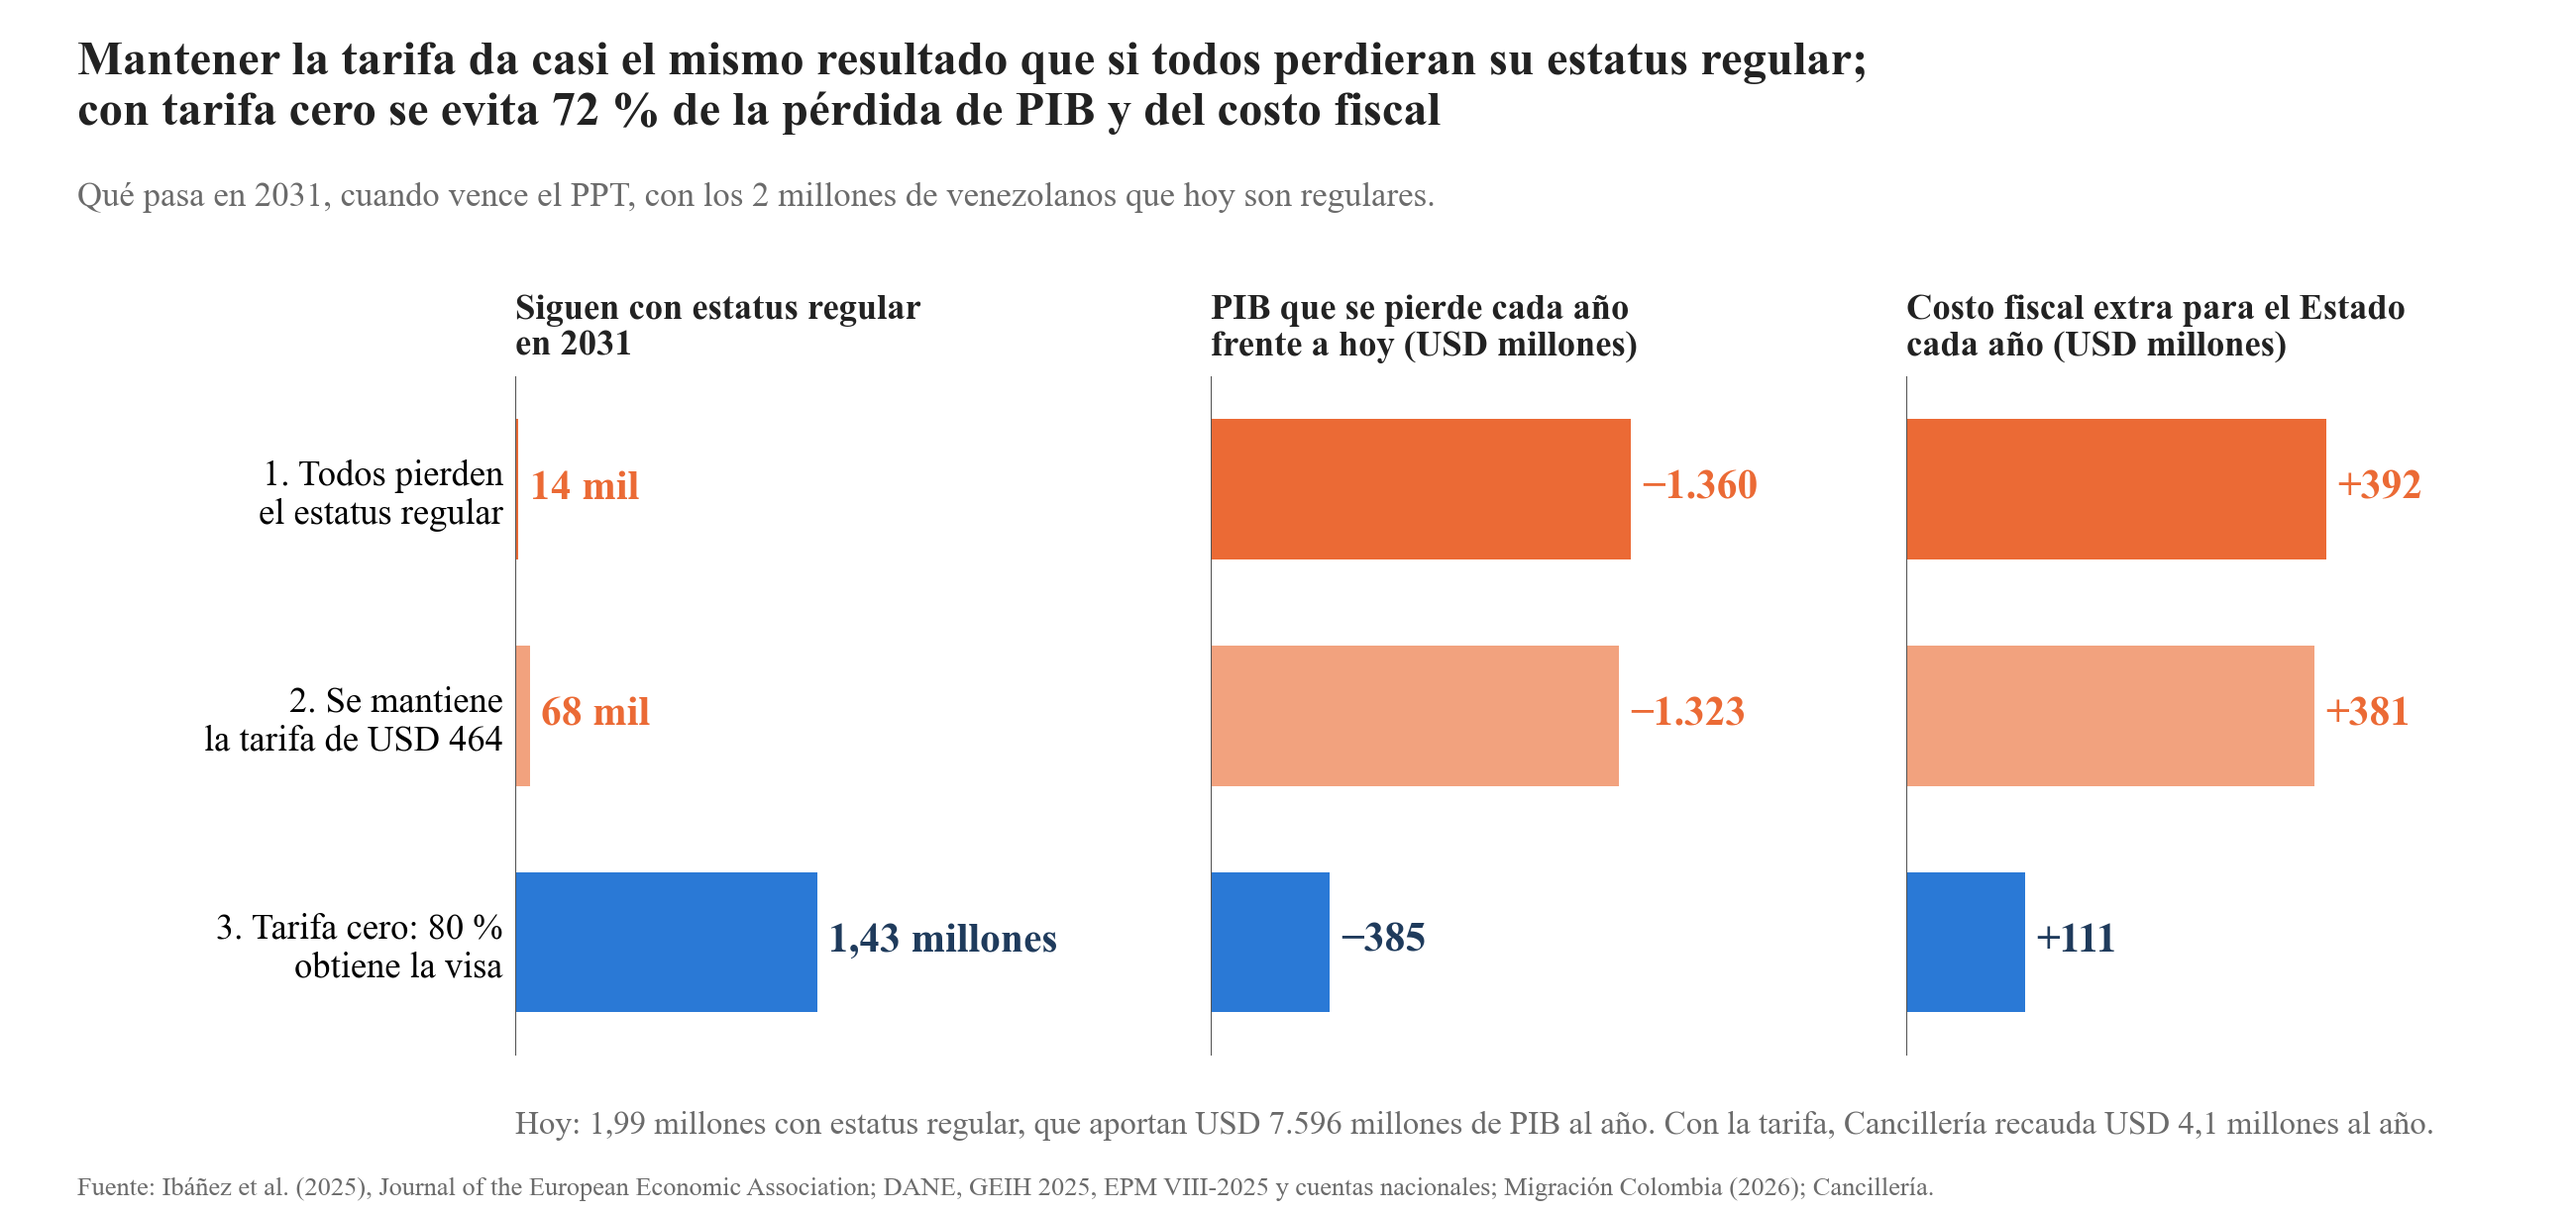
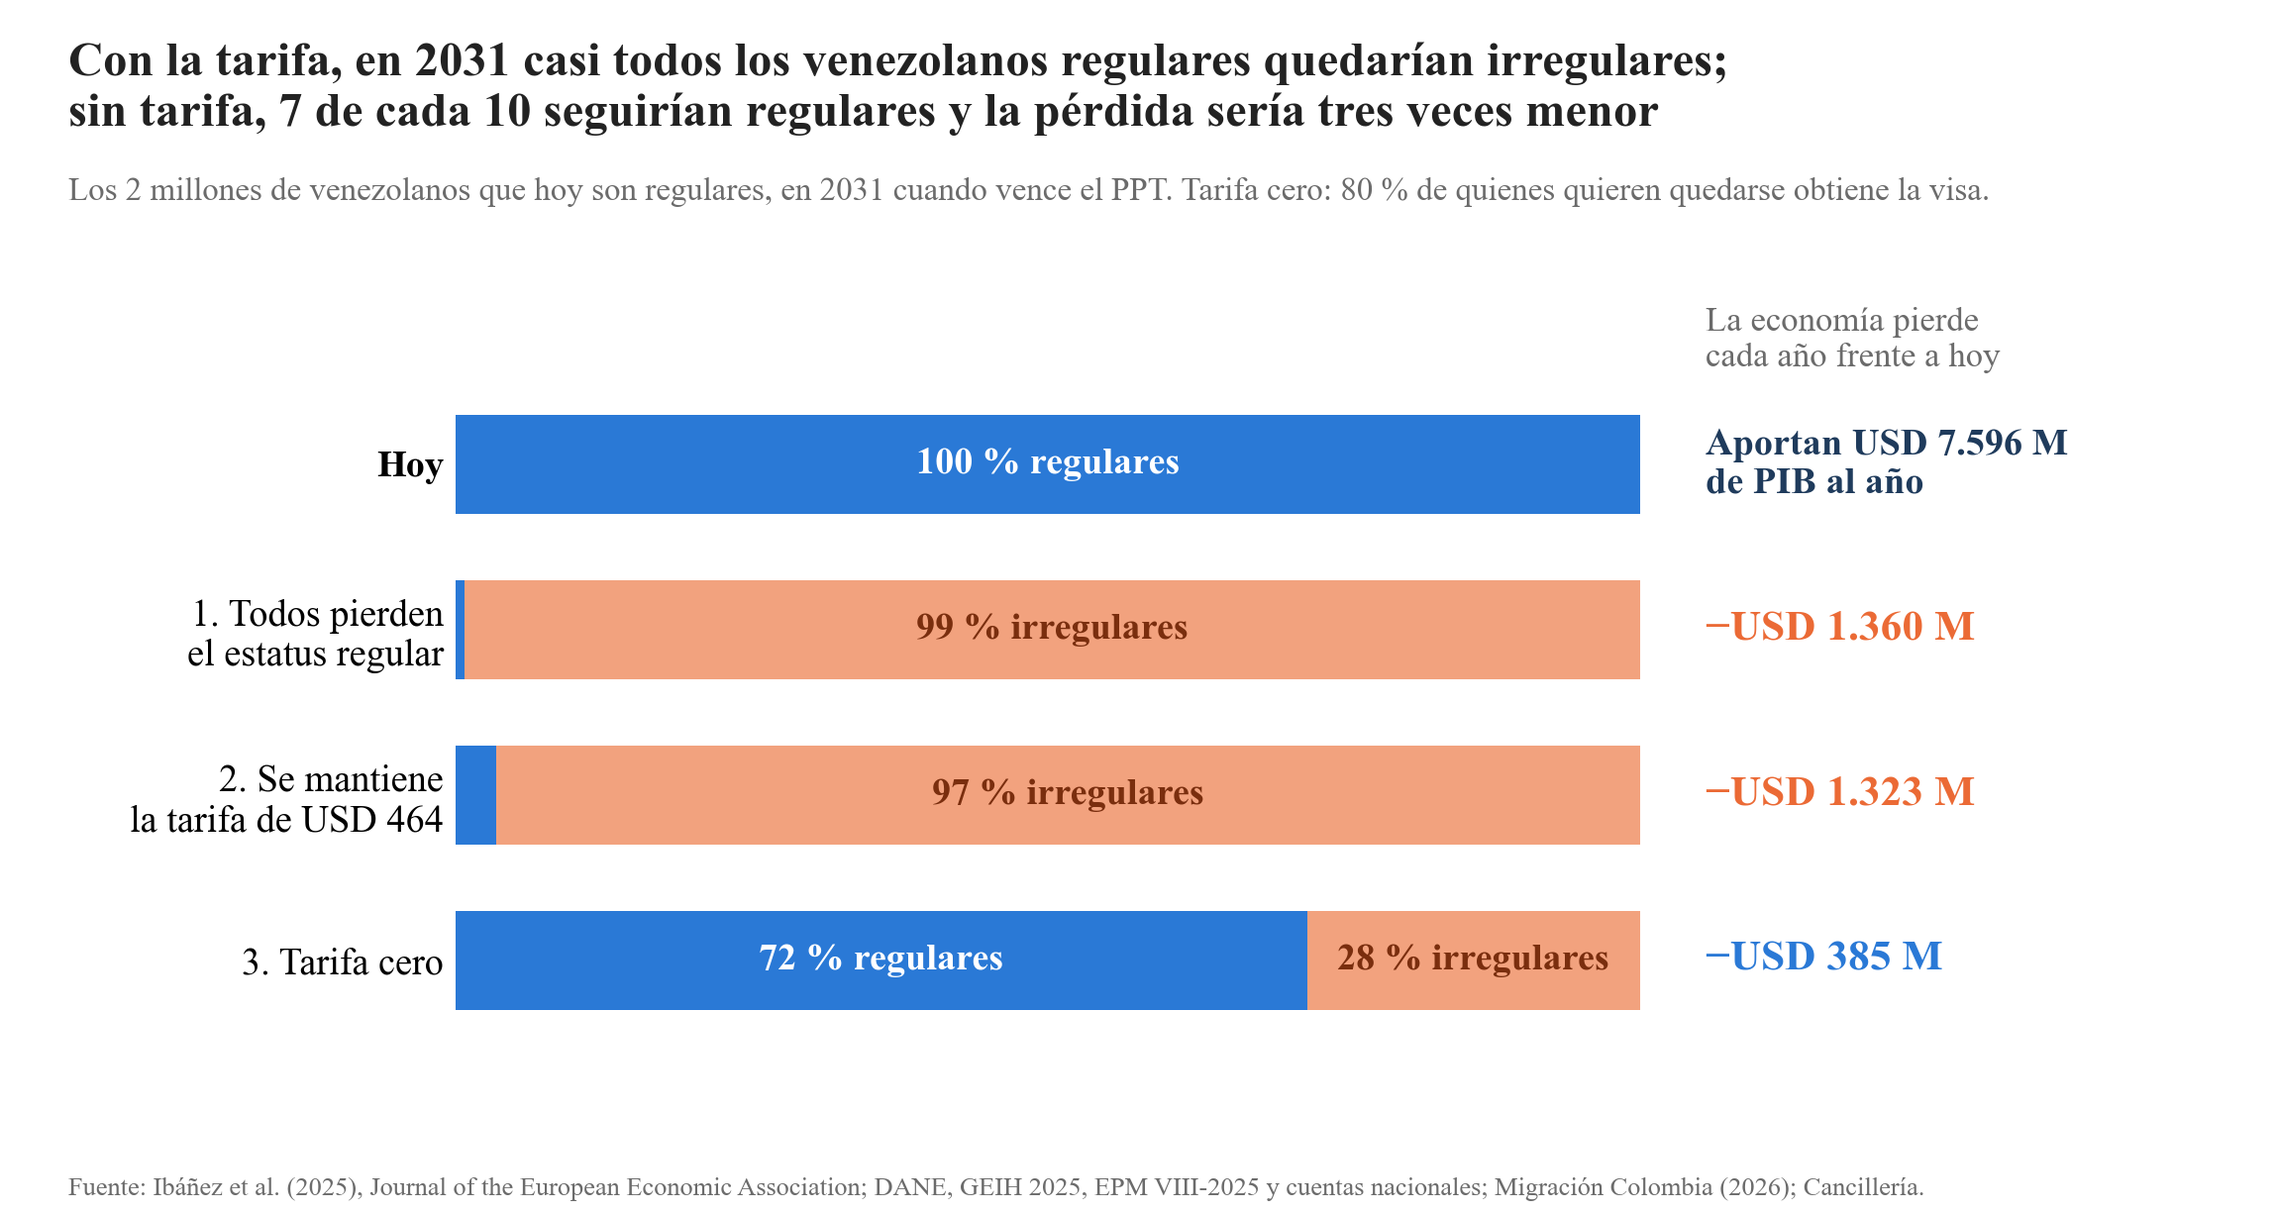
pr19: version simple con barras de regulares e irregulares

diff --git a/Code/32_grafico_tres_escenarios.py b/Code/32_grafico_tres_escenarios.py
@@ -43,31 +43,31 @@ d = pd.DataFrame({"escenario": [k.replace(NL, " ") for k in esc], "regulares_203
 d.to_csv(TAB / "t32_tres_escenarios.csv", index=False)
 print(d.to_string()); print("hoy PIB", round(hoy_pib), "hoy fiscal", round(hoy_fis))
 
-cols = [ORANGE, LORANGE, BLUE]
-panels = [("Siguen con estatus regular" + NL + "en 2031", d["regulares_2031"] / 1e3, lambda v: f"{pc(v / 1e3, 2)} millones" if v >= 1e3 else f"{miles(v)} mil", 1.35 * REG / 1e3),
-          ("PIB que se pierde cada año" + NL + "frente a hoy (USD millones)", d["perdida_PIB_vs_hoy_USD_M"], lambda v: f"−{miles(v)}", 1.35 * d["perdida_PIB_vs_hoy_USD_M"].max()),
-          ("Costo fiscal extra para el Estado" + NL + "cada año (USD millones)", d["costo_fiscal_extra_vs_hoy_USD_M"], lambda v: f"+{miles(v)}", 1.35 * d["costo_fiscal_extra_vs_hoy_USD_M"].max())]
-fig = plt.figure(figsize=(10.4, 4.9))
-y = -np.arange(3)
-for j, (tit, vals, fmt, xmax) in enumerate(panels):
-    ax = fig.add_axes([0.2 + j * 0.27, 0.13, 0.22, 0.56])
-    ax.barh(y, vals, 0.62, color=cols)
-    for yi, v, c in zip(y, vals, cols):
-        ax.text(v + xmax * 0.02, yi, fmt(v), va="center", fontsize=12, fontweight="bold", color=NAVY if c == BLUE else ORANGE)
-    ax.set_xlim(0, xmax); ax.set_ylim(-2.5, 0.5); ax.set_xticks([])
-    ax.set_yticks(y); ax.set_yticklabels([k for k in esc] if j == 0 else [], fontsize=10.5)
-    ax.tick_params(axis="y", length=0)
-    for s in ax.spines.values():
-        s.set_visible(False)
-    ax.axvline(0, color="#555555", lw=0.6)
-    ax.set_title(tit, loc="left", fontsize=10.5, fontweight="bold", color=INK)
-    if j == 0:
-        ax.text(0, 0.62 + 0.5, "", fontsize=1)
-fig.text(0.2, 0.065, f"Hoy: {pc(REG / 1e6, 2)} millones con estatus regular, que aportan USD {miles(hoy_pib)} millones de PIB al año." +
-         f" Con la tarifa, Cancillería recauda USD {pc(TARIFA)} millones al año.", fontsize=9.5, color=GRAY, ha="left")
-fig.text(0.03, 0.965, "Mantener la tarifa da casi el mismo resultado que si todos perdieran su estatus regular;" + NL +
-         f"con tarifa cero se evita {pc(100 * (1 - d.iloc[2, 3] / d.iloc[0, 3]), 0)} % de la pérdida de PIB y del costo fiscal", fontsize=14, fontweight="bold", ha="left", va="top")
-fig.text(0.03, 0.83, "Qué pasa en 2031, cuando vence el PPT, con los 2 millones de venezolanos que hoy son regulares.", fontsize=10, ha="left", color=GRAY)
+# ======================= gráfico simple: cuántas de las 2 millones de personas siguen regulares y cuánto pierde la economía
+filas = [("Hoy", REG, None)] + [(k, r, hoy_pib - pib(r)) for k, r in esc.items()]
+etq = ["Hoy", "1. Todos pierden" + NL + "el estatus regular", "2. Se mantiene" + NL + "la tarifa de USD 464", "3. Tarifa cero"]
+fig, ax = plt.subplots(figsize=(9.2, 4.9)); fig.subplots_adjust(left=0.2, right=0.72, top=0.74, bottom=0.14)
+y = -np.arange(4)
+for yi, (k, r, perd) in zip(y, filas):
+    ax.barh(yi, r / 1e6, 0.6, color=BLUE)
+    ax.barh(yi, (REG - r) / 1e6, 0.6, left=r / 1e6, color=LORANGE)
+    share = r / REG
+    if share > 0.15:
+        ax.text(r / 2e6, yi, f"{pc(100 * share, 0)} % regulares", ha="center", va="center", fontsize=11, fontweight="bold", color="white")
+    if share < 0.95:
+        ax.text((r + (REG - r) / 2) / 1e6, yi, f"{pc(100 * (1 - share), 0)} % irregulares", ha="center", va="center", fontsize=11, fontweight="bold", color="#7a2e0e")
+    txt, col = (f"Aportan USD {miles(hoy_pib)} M" + NL + "de PIB al año", NAVY) if perd is None else (f"−USD {miles(perd)} M", ORANGE if perd > 1000 else BLUE)
+    ax.text(2.1, yi, txt, ha="left", va="center", fontsize=12.5 if perd is not None else 11, fontweight="bold", color=col, transform=ax.transData)
+ax.text(2.1, 0.55, "La economía pierde" + NL + "cada año frente a hoy", ha="left", va="bottom", fontsize=10, color=GRAY)
+ax.set_yticks(y); ax.set_yticklabels(etq, fontsize=11); ax.tick_params(axis="y", length=0)
+ax.set_xticks([]); ax.set_xlim(0, REG / 1e6); ax.set_ylim(-3.5, 0.9)
+for s in ax.spines.values():
+    s.set_visible(False)
+ax.get_yticklabels()[0].set_fontweight("bold")
+fig.text(0.03, 0.965, "Con la tarifa, en 2031 casi todos los venezolanos regulares quedarían irregulares;" + NL +
+         f"sin tarifa, {pc(10 * esc[list(esc)[2]] / REG, 0)} de cada 10 seguirían regulares y la pérdida sería tres veces menor", fontsize=14, fontweight="bold", ha="left", va="top")
+fig.text(0.03, 0.835, "Los 2 millones de venezolanos que hoy son regulares, en 2031 cuando vence el PPT. Tarifa cero: 80 % de quienes quieren quedarse obtiene la visa.",
+         fontsize=9.5, ha="left", color=GRAY)
 fig.text(0.03, 0.015, "Fuente: Ibáñez et al. (2025), Journal of the European Economic Association; DANE, GEIH 2025, EPM VIII-2025 y cuentas nacionales; Migración Colombia (2026); Cancillería.",
          fontsize=7.6, color=GRAY, ha="left")
 fig.savefig(FIG / "pr19_tres_escenarios.png", dpi=250, facecolor="white"); plt.close(fig)
